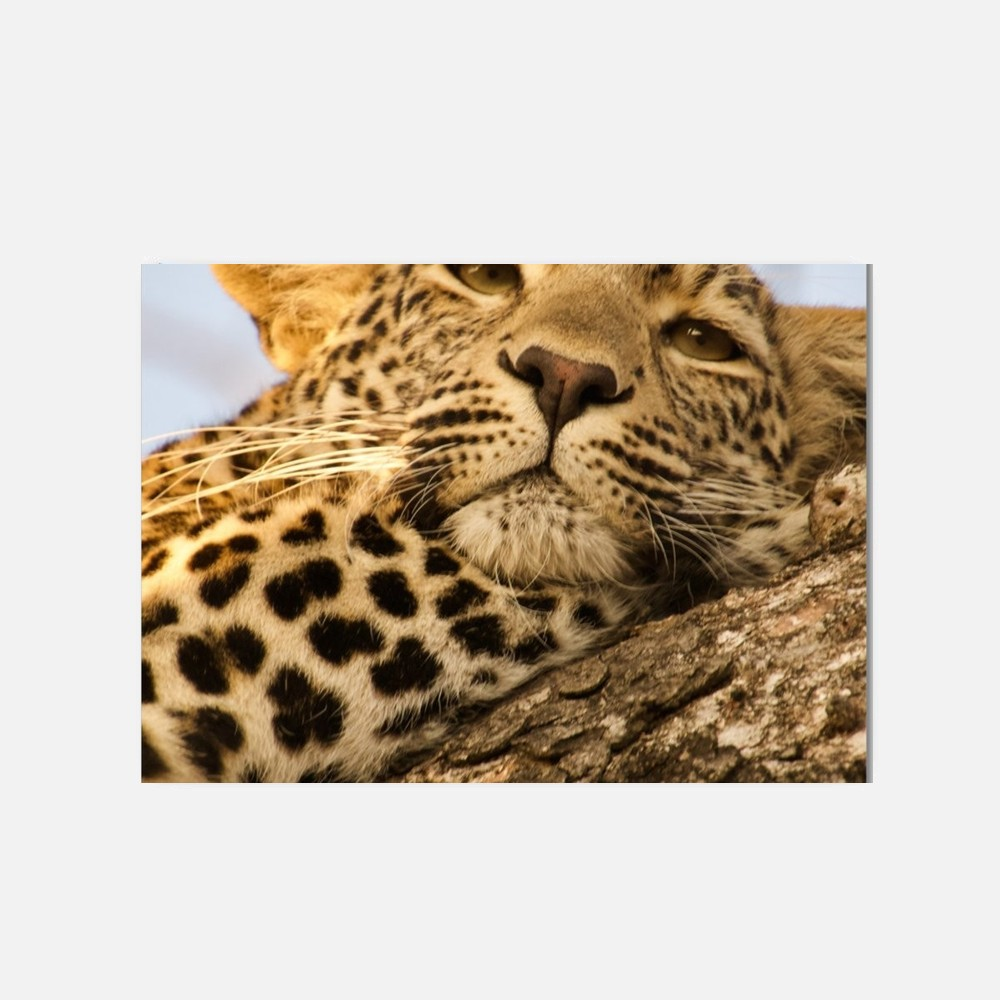
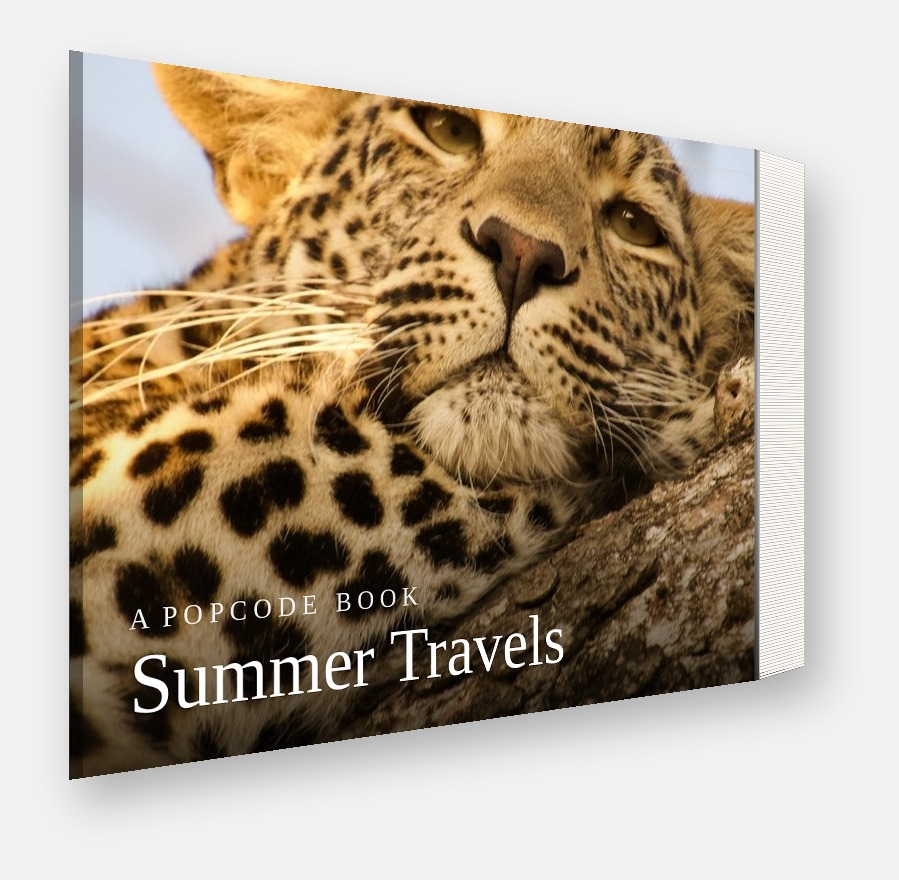
Past Views: Cooper titles + narrower 800px cards; Shop Photo Book card as angled 3D hardcover with sample title

diff --git a/public/views.html b/public/views.html
@@ -48,13 +48,13 @@
         position: relative; margin-bottom: 32px; align-self: stretch;
       }
       .top-bar {
-        width: 100%; max-width: 1040px; padding: 80px 28px 0;
+        width: 100%; max-width: 800px; padding: 80px 28px 0;
         display: flex; align-items: flex-start; justify-content: flex-start;
         margin-bottom: 40px; align-self: center;
       }
       .top-bar h1 { font-size: 44px; font-weight: 400; color: #1a1a1a; font-family: 'CooperBT', Georgia, serif; letter-spacing: -0.01em; text-align: left; }
       @media (max-width: 680px) { .top-bar { padding-top: 48px; } .top-bar h1 { font-size: 30px; } }
-      .content { width: 100%; max-width: 1040px; padding: 0 28px; display: flex; flex-direction: column; gap: 14px; align-self: center; }
+      .content { width: 100%; max-width: 800px; padding: 0 28px; display: flex; flex-direction: column; gap: 14px; align-self: center; }
 
       .view-card {
         background: white; border-radius: 16px; padding: 16px 20px;
@@ -63,7 +63,7 @@
       }
       .view-thumb { width: 60px; height: 60px; border-radius: 10px; background: #e8e4f0 center/cover; flex-shrink: 0; }
       .view-info { flex: 1; min-width: 0; }
-      .view-name { font-size: 16px; font-weight: 700; margin-bottom: 4px; white-space: nowrap; overflow: hidden; text-overflow: ellipsis; }
+      .view-name { font-family: 'CooperBT', Georgia, serif; font-size: 20px; font-weight: 400; letter-spacing: 0; margin-bottom: 4px; white-space: nowrap; overflow: hidden; text-overflow: ellipsis; }
       .view-date { font-size: 12px; color: #aaa; }
       .view-btn {
         background: #1a1a1a;